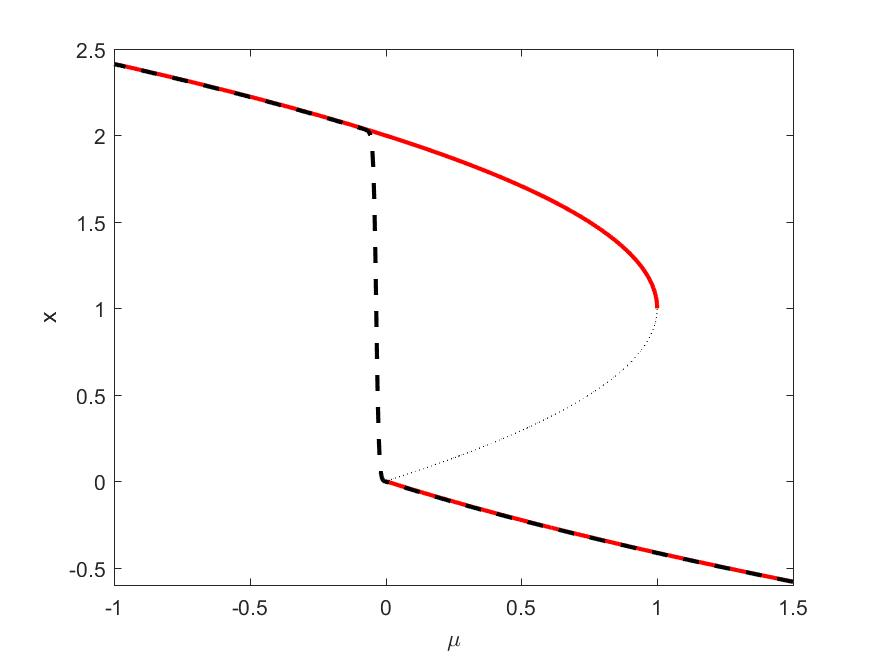
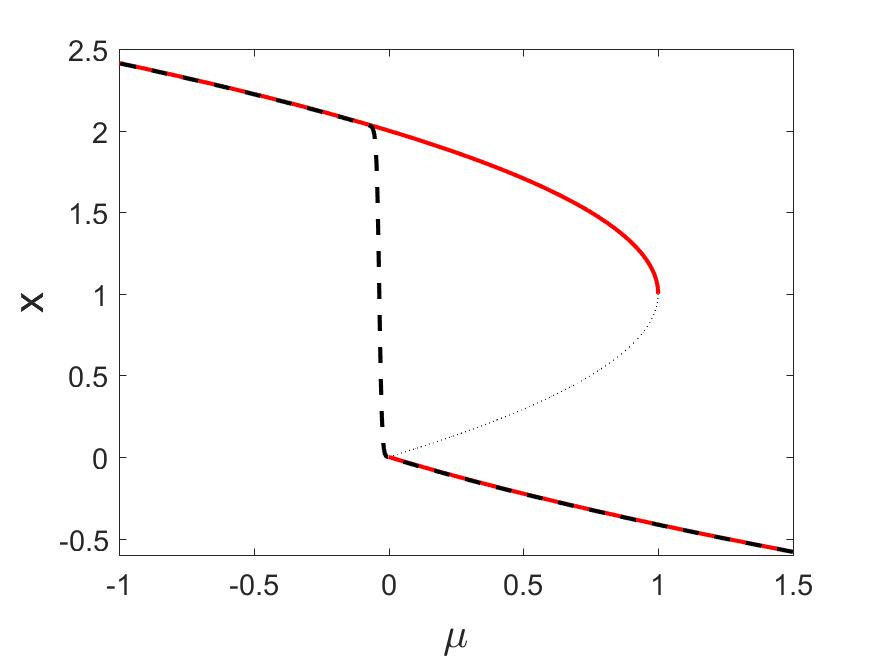
intro plots+ oneD slow

diff --git a/Complete/OneD_matlab/Slow/oneD_slow.m b/Complete/OneD_matlab/Slow/oneD_slow.m
@@ -3,8 +3,8 @@
 criteria=.5;
 
 % Load function folder
-addpath('C:\Users\codyg\Desktop\MSc_Thesis\Cody\trunk\Complete\Functions')
-cd('C:\Users\codyg\Desktop\MSc_Thesis\Cody\trunk\Complete\Graphs\OneD_Basic')
+addpath('C:\Users\codyg\Desktop\Thesis-Master\trunk\Complete\Functions')
+cd('C:\Users\codyg\Desktop\Thesis-Master\trunk\Complete\Graphs\OneD_Basic')
 
 %Initial values and set up
 h=.01;
@@ -22,18 +22,16 @@ muDE=@(t,y,mu)(-eps);
 
 %Comparison
 
-tipdelayed=eps*log(eps)/2;
+tipdelayed=eps*log(eps);
 tipxdel=tipdelayed*ones(1,100);
 tipy=linspace(min(y),max(y),100);
 
 tipactual=mu(find(y>criteria,1)-1);
 truetipvec=tipactual*ones(1,100);
-dif=abs(tipdelayed-tipactual);
-fprintf('The difference in predicted tip for eps=%f is %f\n',eps,dif)
 
 %Figures
-
-f1=figure(1); % Full picture
+close(figure(1))
+figure(1); % Full picture
 
 syms mu1 x
 z=@(mu,y)(-mu+2*abs(y)-y*abs(y));
@@ -45,7 +43,9 @@ set(h2,'color','r','linewidth', 2)
 h3=fimplicit(z,[-1,1.5,1,2.5]);
 set(h3,'color','r','linewidth', 2)
 plot(mu,y,'k--','linewidth',2)
-xlabel('\mu');ylabel('x')
+set(gca,'fontsize',14)
+xlabel('\mu','fontsize',20)
+ylabel('x','fontsize',20)
 title('')
 
 % Remove vectorized warning, not important for speed
@@ -54,30 +54,22 @@ warning('off',war);
 print('-f1','slow_bif_diagram','-djpeg');
 
 %Zoom
-plot(tipxdel, tipy, 'b')
-plot(truetipvec, tipy, 'k--')
+plot(tipxdel, tipy, 'b--','linewidth',2)
+plot(truetipvec, tipy, 'k','linewidth',2)
 xlim([-.05 .1])
-ylim([-.05 .15])
+ylim([-.05 .2])
 
 print('-f1','slow_bif_diagram_zoom','-djpeg');
 
-
-fileID = fopen('slow_bif_diagram_information.txt','w');
-fprintf(fileID,'tipping actual =%f\n',tipactual);
-fprintf(fileID,'tipping estimate =%f\n',tipdelayed);
-fprintf(fileID,'epsilon=%f\n',eps);
-fprintf(fileID,'Criteria=%f\n', criteria);
-fclose(fileID);
-
 %Comparison plot
-epsvec=linspace(.001,.1,20);
+epsvec=linspace(.001,.2,20);
 tipdelayedvec=zeros(1,length(epsvec));
 tipactualvec=zeros(1,length(epsvec));
 
 for i=1:length(epsvec)
     h=.01;
     eps=epsvec(i);
-    start=1.5;stop=-1;
+    start=1;stop=-1;
     time=abs(stop-start)/eps;
     muInit=start;
     yInit=1-sqrt(1+muInit);
@@ -92,12 +84,15 @@ for i=1:length(epsvec)
     tipactualvec(i)=mu(find(y>criteria,1));
     
 end
+
+close(figure(2))
 figure(2)
 plot(epsvec,tipdelayedvec,'k','linewidth',2);
 hold on
 plot(epsvec,tipactualvec,'r*');
-xlabel('\epsilon');ylabel('\mu-\mu_{ns}')
+set(gca,'fontsize',14)
+xlabel('\epsilon','fontsize',20)
+ylabel('\mu','fontsize',20)
 
 
 print('-f2','slow_epscomp','-djpeg');
-

diff --git a/Complete/Stommel_model_matlab/stommel_bifurcation_plots.m b/Complete/Stommel_model_matlab/stommel_bifurcation_plots.m
@@ -1,11 +1,11 @@
-addpath('C:\Users\codyg\Desktop\MSc_Thesis\Cody\trunk\Complete\Functions')
-cd('C:\Users\codyg\Desktop\MSc_Thesis\Cody\trunk\Complete\Graphs\TwoD_Stommel')
+addpath('C:\Users\codyg\Desktop\Thesis-Master\trunk\Complete\Functions')
+cd('C:\Users\codyg\Desktop\Thesis-Master\trunk\Complete\Graphs\TwoD_Stommel')
 
 
 %Standard orientation bif plot
 eta3=0.375;
 eta1=4;
-
+close(figure(1))
 figure(1)
 z=@(eta2,V)(eta1-eta2)-V*abs(V)-eta1/(1+abs(V))+eta3*(eta1/(1+abs(V))-V);
 h1=ezplot(z,[eta1*eta3-1,eta1*eta3+1,-.5,2]);
@@ -19,8 +19,9 @@ z=@(eta2,V)(eta1-eta2)-V*abs(V)-eta1/(1+abs(V))+eta3*(eta1/(1+abs(V))-V);
 h3=ezplot(z,[eta1*eta3-1,eta1*eta3+1,.426651,2.5]);
 set(h3,'color','r','linewidth',2)
 
-xlabel('\eta_2')
-ylabel('V')
+set(gca,'fontsize',14)
+xlabel('\eta_2','fontsize',20)
+ylabel('V','fontsize',20)
 title('')
 axis([.5 2.5 -.5 1.5])
 print('-f1','V_bif','-djpeg');
@@ -29,20 +30,22 @@ print('-f1','V_bif','-djpeg');
 
 eta1=4;
 eta3=1;
+close(figure(2))
 figure(2)
 z=@(eta2,V)(eta1-eta2)-V*abs(V)-eta1/(1+abs(V))+eta3*(eta1/(1+abs(V))-V);
 h1=ezplot(z,[eta1*eta3-1,eta1*eta3+1,-.5,.5]);
 set(h1,'color','r','linewidth',2)
-xlabel('\eta_2')
-ylabel('V')
+set(gca,'fontsize',14)
+xlabel('\eta_2','fontsize',20)
+ylabel('V','fontsize',20)
 title('')
+print('-f2','V_bif_collapse','-djpeg');
 
-%Reverse orientation
 
+%Saddle orientation
 eta1=4;
 eta3=1.875;
-print('-f2','V_bif_reverse','-djpeg');
-
+close(figure(3))
 figure(3)
 z=@(eta2,V)(eta1-eta2)-V*abs(V)-eta1/(1+abs(V))+eta3*(eta1/(1+abs(V))-V);
 h1=ezplot(z,[eta1*eta3-1,eta1*eta3+1,-1,.5]);
@@ -56,12 +59,13 @@ z=@(eta2,V)(eta1-eta2)-V*abs(V)-eta1/(1+abs(V))+eta3*(eta1/(1+abs(V))-V);
 h3=ezplot(z,[eta1*eta3-1,eta1*eta3+1,-.226269,-1]);
 set(h3,'color','r','linewidth',2)
 
-xlabel('\eta_2')
-ylabel('V')
+set(gca,'fontsize',14)
+xlabel('\eta_2','fontsize',20)
+ylabel('V','fontsize',20)
 title('')
 axis([6.5 8.5 -1 .5])
 
-print('-f3','V_bif_collapse','-djpeg');
+print('-f3','V_bif_reverse','-djpeg');
 
 %T equilibrium
 eta1 = 4; eta3 = 3/8;
@@ -94,8 +98,9 @@ plot(Vlow,Tlow,'r','linewidth',2)
 hold on
 plot(Vmid,Tmid, 'k-.')
 plot(Vup,Tup,'r','linewidth',2)
-xlabel('V')
-ylabel('T')
+set(gca,'fontsize',14)
+xlabel('V','fontsize',20)
+ylabel('T','fontsize',20)
 print('-f4','T_equil','-djpeg');
 
 function eta2 = Vcurve(V,eta1,eta3)
